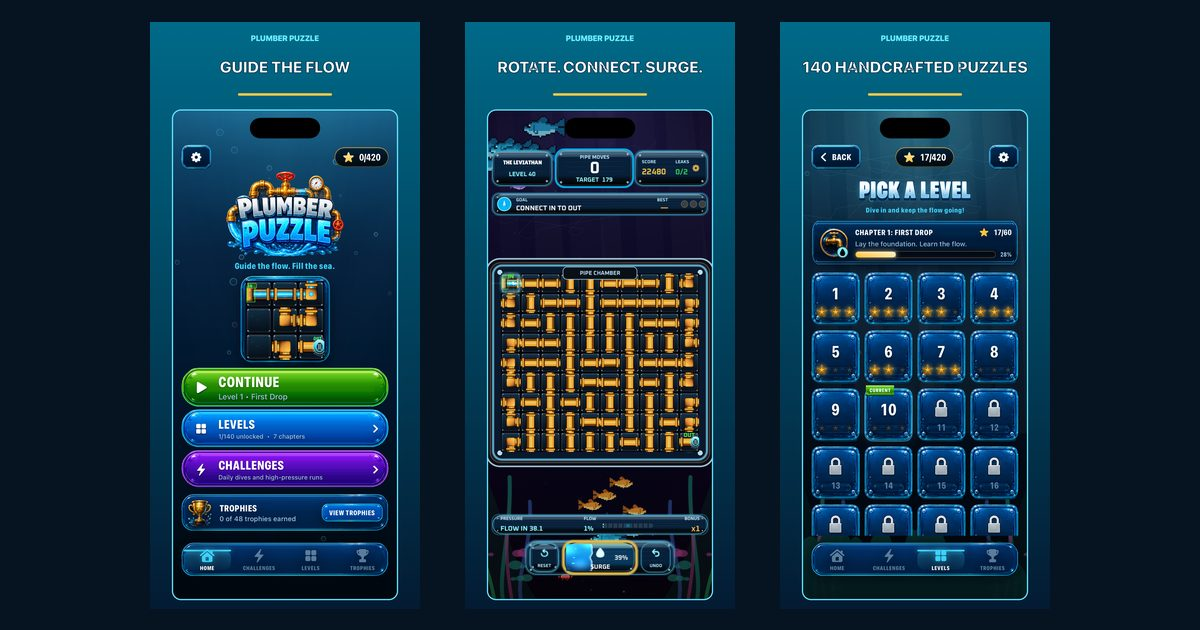
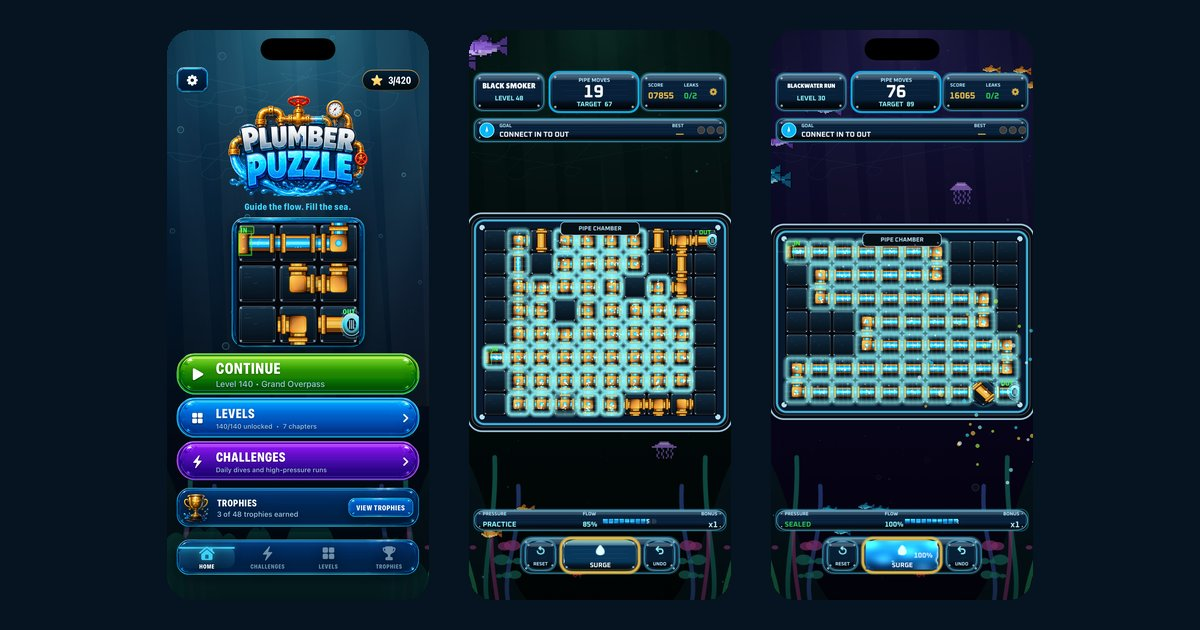
Gallery: replace App Store marketing images with 7 real in-game captures; rebuild og-card; update /creators/ shot

diff --git a/index.html b/index.html
@@ -69,7 +69,7 @@ a.inline{color:var(--accent2);text-decoration:underline;text-underline-offset:3p
 </div></header>
 <section class="section" id="screenshots"><div class="wrap">
   <h2>Screenshots</h2>
-  <ul class="shots"><li class="shot"><img src="/screenshots/01-guide-the-flow.webp" width="460" height="1000" loading="lazy" decoding="async" alt="Home screen with the Plumber Puzzle logo and Continue, Levels, Challenges and Trophies buttons"></li><li class="shot"><img src="/screenshots/02-rotate-connect-surge.webp" width="460" height="1000" loading="lazy" decoding="async" alt="Level 48 in progress: a grid of brass pipes in the Pipe Chamber with score, target and surge controls"></li><li class="shot"><img src="/screenshots/03-new-run-every-day.webp" width="460" height="1000" loading="lazy" decoding="async" alt="Challenges menu listing Rapid Flow, Perfect Seal, Daily Dive and Endless Descent modes"></li><li class="shot"><img src="/screenshots/04-descend-adapt-deeper.webp" width="460" height="1000" loading="lazy" decoding="async" alt="Endless Descent run at Stage 16, depth 840m, with glowing connected pipes"></li><li class="shot"><img src="/screenshots/05-140-handcrafted-puzzles.webp" width="460" height="1000" loading="lazy" decoding="async" alt="Pick a Level screen for Chapter 1: First Drop, showing star ratings and locked levels"></li><li class="shot"><img src="/screenshots/06-master-every-chamber.webp" width="460" height="1000" loading="lazy" decoding="async" alt="Trophies screen with total trophy progress and legendary trophies like Sea Engineer and Pipe Master"></li></ul>
+  <ul class="shots"><li class="shot"><img src="/screenshots/01-home.webp" width="460" height="999" loading="lazy" decoding="async" alt="Home screen with the Plumber Puzzle logo and Continue, Levels, Challenges and Trophies buttons"></li><li class="shot"><img src="/screenshots/03-level-48-solving.webp" width="460" height="999" loading="lazy" decoding="async" alt="Level 48 'Black Smoker' mid-solve with the flow meter at 85%"></li><li class="shot"><img src="/screenshots/05-level-30-win.webp" width="460" height="999" loading="lazy" decoding="async" alt="Level 30 'Blackwater Run' sealed at 100% flow"></li><li class="shot"><img src="/screenshots/04-level-110-later.webp" width="460" height="999" loading="lazy" decoding="async" alt="Level 110 'Delta Manifold', a tall late-game pipe board"></li><li class="shot"><img src="/screenshots/06-descent.webp" width="460" height="999" loading="lazy" decoding="async" alt="Endless Descent stage 1 with the green pipe set"></li><li class="shot"><img src="/screenshots/07-trophies.webp" width="460" height="999" loading="lazy" decoding="async" alt="Trophies screen showing 3/48 Legendary trophies"></li><li class="shot"><img src="/screenshots/02-level-12.webp" width="460" height="999" loading="lazy" decoding="async" alt="Level 12 'Backwash' at the start of the puzzle"></li></ul>
 </div></section>
 <section class="section" id="features"><div class="wrap">
   <h2>Pipe craft, pressure, and flow.</h2>

diff --git a/creators/index.html b/creators/index.html
@@ -67,7 +67,7 @@ a.inline{color:var(--accent2);text-decoration:underline;text-underline-offset:3p
     <div class="proofItem"><strong>0</strong><span>ads or accounts</span></div>
     <div class="proofItem"><strong>★★★</strong><span>three-star scoring</span></div>
   </div>
-  <img class="creatorShot" src="/screenshots/02-rotate-connect-surge.webp" width="460" height="1000" loading="lazy" decoding="async" alt="Level 48 in progress: a grid of brass pipes in the Pipe Chamber with score, target and surge controls">
+  <img class="creatorShot" src="/screenshots/03-level-48-solving.webp" width="460" height="999" loading="lazy" decoding="async" alt="Level 48 'Black Smoker' mid-solve with the flow meter at 85%">
 </div></header>
 <section class="section" id="how-it-plays"><div class="wrap">
   <h2>What you saw, in three steps.</h2>
